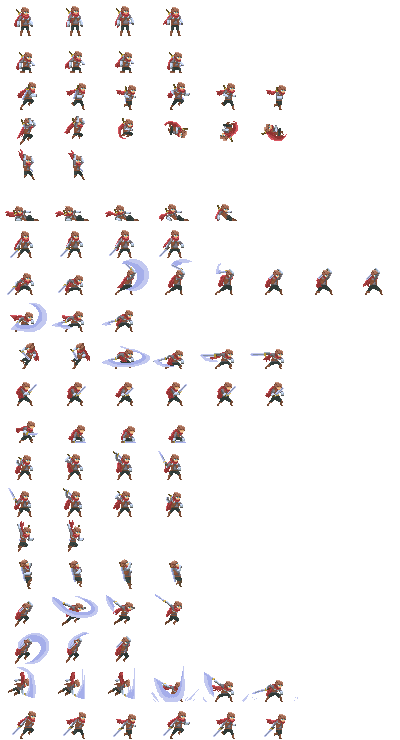
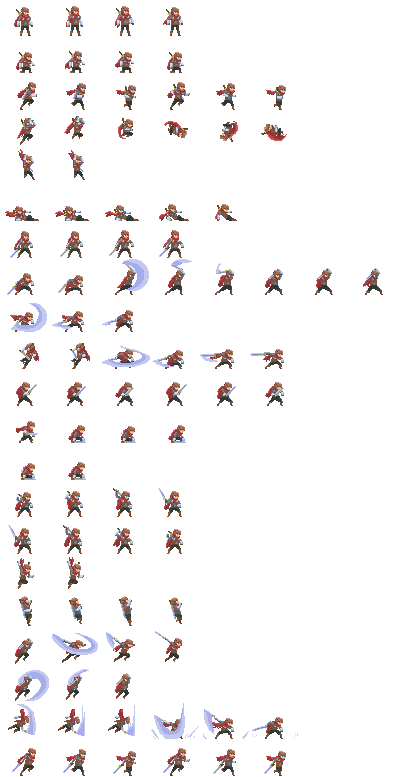
Play player death animation

diff --git a/AlphaEngine_BaseProject/Source/Game/Player/Player.cpp b/AlphaEngine_BaseProject/Source/Game/Player/Player.cpp
@@ -41,6 +41,12 @@ Player::~Player()
 
 void Player::Update()
 {
+    if (IsDead())
+    {
+        UpdateAnimation();
+        return;
+    }
+
     UpdateInput();
     UpdateTriggerColliders();
 
@@ -58,6 +64,9 @@ void Player::Update()
 
     UpdateAnimation();
     UpdateTrails();
+
+    if (AEInputCheckCurr(AEVK_N))
+        TryTakeDamage(10000, { 0 });
 }
 
 void Player::Render()
@@ -509,12 +518,14 @@ void Player::UpdateTrails()
 
 void Player::UpdateAnimation()
 {
-    if (IsAttacking())
+    if (IsAttacking() || IsDead())
     {
-        // Do nothing, go to sprite.Update()
+        sprite.Update();
+        return;
     }
+
     // If player is trying to attack (including input buffer)
-    else if (static_cast<float>(Time::GetInstance().GetScaledElapsedTime()) - lastAttackHeld < stats.attackBuffer)
+    if (static_cast<float>(Time::GetInstance().GetScaledElapsedTime()) - lastAttackHeld < stats.attackBuffer)
     {
         //Attack(AIR_ATTACK_1);
         if (!isGroundCollided && (AEInputCheckCurr(AEVK_DOWN) || AEInputCheckCurr(AEVK_S)))
@@ -586,7 +597,7 @@ float Player::PercentToScale(int percentage)
 
 const AEVec2& Player::GetHurtboxPos()  const { return position; }
 const AEVec2& Player::GetHurtboxSize() const { return stats.playerSize; }
-bool Player::IsDead() const { return GetAnimState() == AnimState::DEATH; }
+bool Player::IsDead() const { return GetAnimState() == AnimState::DEATH || GetAnimState() == AnimState::DEATH_LOOP; }
 
 bool Player::TryTakeDamage(int dmg, const AEVec2& hitOrigin)
 {
@@ -594,6 +605,9 @@ bool Player::TryTakeDamage(int dmg, const AEVec2& hitOrigin)
     {
         health = 0;
         EventSystem::Trigger<PlayerDeathEvent>({ *this });
+        sprite.SetState(AnimState::DEATH, false, [&](int) {
+            sprite.SetState(AnimState::DEATH_LOOP); 
+        });
         return false;
     }
 
@@ -630,6 +644,7 @@ void Player::DrawInspector()
         ImGui::SeparatorText("Stats");
         ImGui::SliderInt("Health", &health, 0, stats.maxHealth);
         ImGui::TextDisabled("Is attacking: %s", IsAttacking() ? "Y" : "N");
+        ImGui::TextDisabled("Sprite index: %s", std::to_string(sprite.GetState()).c_str());
         
         ImGui::SeparatorText("Buffs");
         ImGui::DragFloat("Move Speed", &buff_MoveSpeedMulti, 0.1f);

diff --git a/AlphaEngine_BaseProject/Source/Game/Player/Player.h b/AlphaEngine_BaseProject/Source/Game/Player/Player.h
@@ -33,6 +33,7 @@ public:
         ATTACK_END = ATTACK_3,
         HURT,        
         DEATH,       
+        DEATH_LOOP,       
         SWORD_DRAW,  
         SWORD_SHEATH,
         WALL_SLIDE,  
